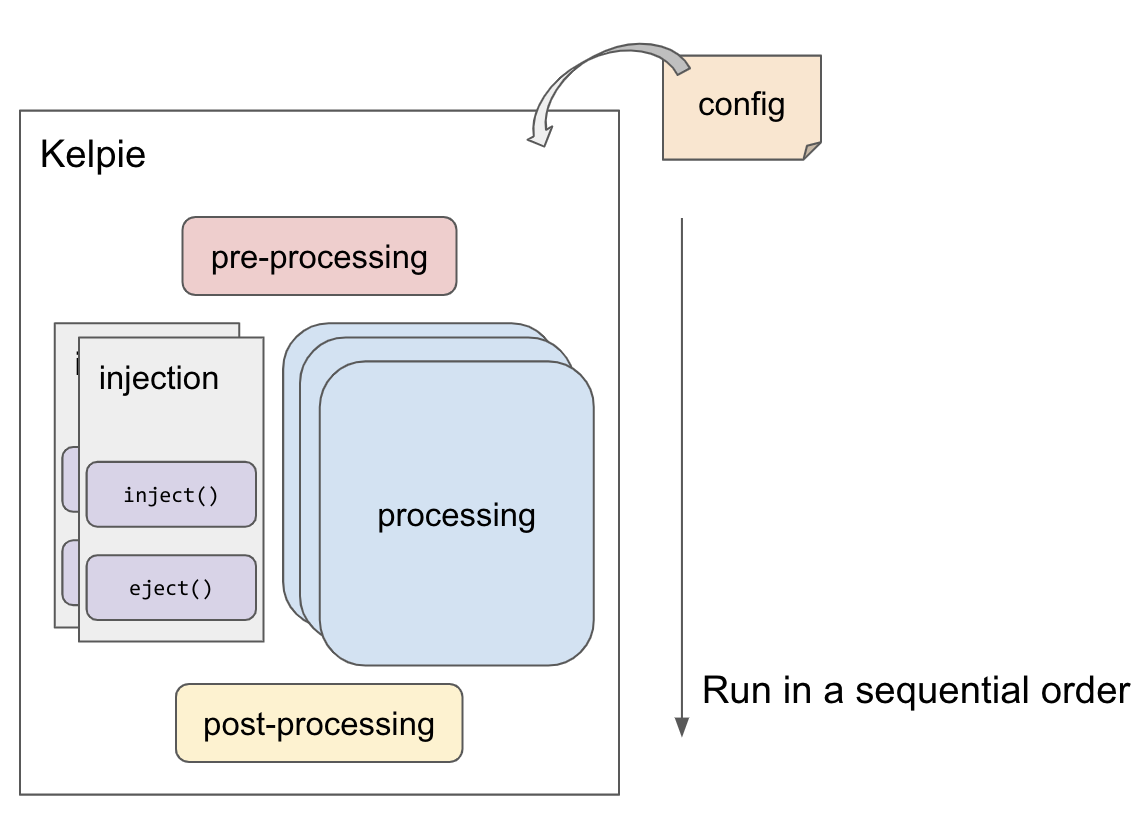
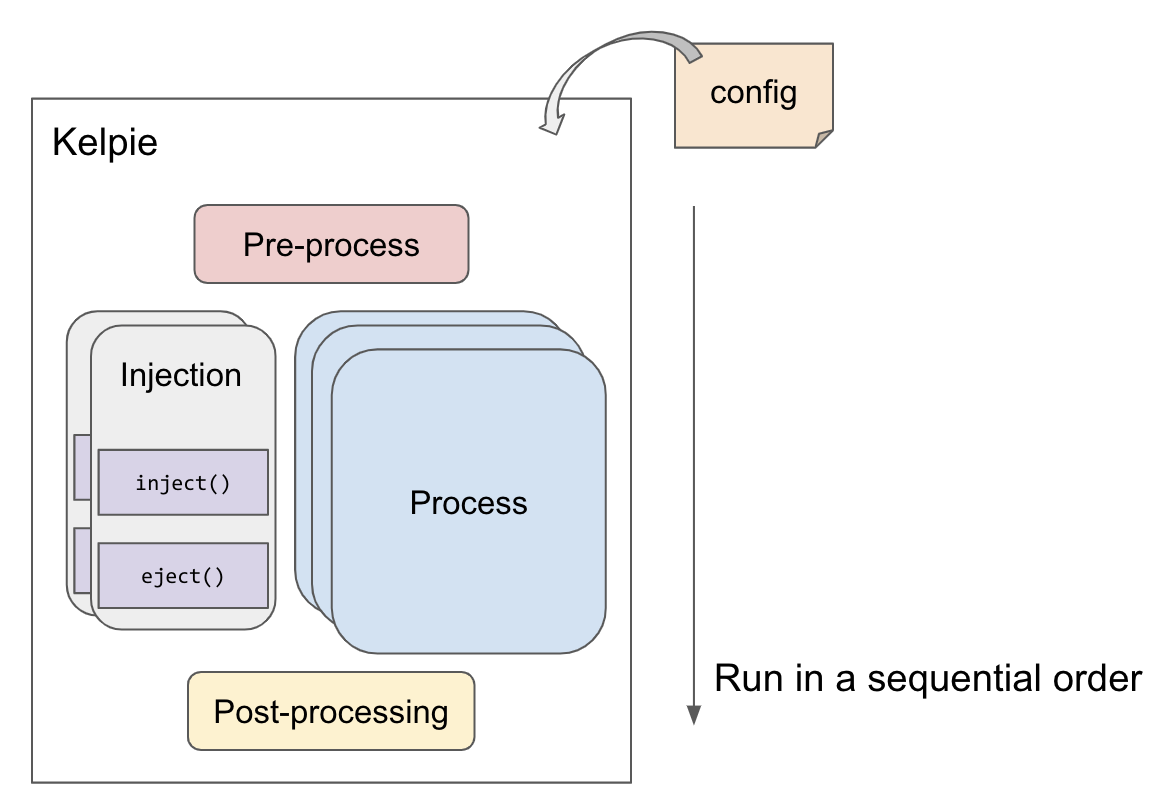
update README and diagram

Changed region(s): [[0.0, 0.0311, 0.7343, 0.995], [0.5813, 0.2799, 1.0, 0.9017], [0.3365, 0.5908, 0.4895, 0.653]]

diff --git a/README.md b/README.md
@@ -6,7 +6,7 @@ Kelpie is a simple yet general framework for running end-to-end testing such as 
 
 ## How Kelpie works
 Kelpie is composed of a framework that orchestrates a test and takes care of task management such as concurrent execution, and a test that is run by the framework.
-As the following diagram, a test in Kelpie has 3 steps; pre-processing, processing and post-processing, which run in a sequential order. A test can also have an injection step that runs in parallel with the processing step. The behavior of each step can be described by implementing the corresponding modules called `PreProcessor`, `Processor`, `PostProcessor` and `Injector` respectively.
+As the following diagram shows, a test in Kelpie has 3 steps; pre-processing, processing and post-processing, which run in a sequential order. A test can also have an injection step that runs in parallel with the processing step. The behavior of each step can be described by implementing the corresponding modules called `PreProcessor`, `Processor`, `PostProcessor` and `Injector` respectively.
 
 <p align="center">
   <img src="doc/kelpie.png" width=450px>
@@ -69,11 +69,11 @@ public class PrintPre extends PreProcessor {
 ```
 
 ## Processor
-`Processor` executes the main process. For example, `Processor` makes and sends requests to the server.
+`Processor` executes actual tests. For example, if it is benchmarking a database server, `Processor` makes a query, send it to the server, get the response back from the server, and continue them until it finishes.
 
-Like `Preprocessor`, you have to implement the constructor and `execute()`. `execute()` might be executed concurrently on multiple threads. That's why you need to make `execute()` thread-safe. If you don't want to do `execute()` concurrently, you have to set `concurrency = 1` in the config file.
+Like `Preprocessor`, you need to implement the constructor and `execute()`. `execute()` can be executed concurrently with multiple threads if `concurrency` is set to more than 1 in the configuration file. Note that you need to make `execute()` thread-safe in that case.
 
-The following class is a sample of `Processor`. It gets a number of `num` from `config`, counts the number and waits for a second. If you set `concurrency` more than 1, these counting messages are output by each thread.
+The following class is an example of `Processor`, which prints out a message for the specified number of times by `num`. 
 
 ```java
 package print;
@@ -104,9 +104,9 @@ public class PrintProcessor extends Processor {
 ```
 
 ## PostProcessor
-`PostProcessor` executes something after all `Processor#execute()` finish. For example, `PostProcessor` reads all records of the database and checks if their values are as expected. `PostProcessor#execute()` is always executed on a single thread.
+`PostProcessor` executes some tasks after all `Processor#execute()` finish. For example, if it is verifying database consistency, `PostProcessor` reads all the records of the database and checks if their values are as expected. `PostProcessor#execute()` is always executed with a single thread.
 
-Like `PreProcessor` and `Processor`, you have to implement the constructor and `execute()`. The following class is a sample of `PostProcessor` to just print the summary. It gets the parameters `title` and `num` from `config` and prints the summary.
+Like `PreProcessor` and `Processor`, you need to implement the constructor and `execute()`. The following class is an example of `PostProcessor`, which prints out the specified configurations.
 
 ```java
 package print;
@@ -127,23 +127,26 @@ public class PrintPost extends PostProcessor {
     System.out.println("Checking for " + title);
     System.out.println("Run for " + num + " seconds");
 
-    // always succeed
+    // always succeed in this case
+
+    // if unexpected result happens,
+    // throw new PostProcessException("unexpected result happens");
   }
 }
 ```
 
-If you want `PostProcessor` to check the result of `Processor` execution, `PostProcessor#execute()` might need to throw an exception for the unexpected result. A test will fail when an exception is thrown from each module.
+When `PostProcessor` check the result of `Processor` execution and the result isn't expected, `PostProcessor#execute()` should throw an exception `PostProcessException`. A test will fail when the exception is thrown.
 
 ## Injector
-`Injector` is different from other modules. It is executed while `Processor#execute()` is running. For example, `Injector` kills and restarts a database process for distructive testing.
+`Injector` executes some arbitrary tasks that you want to execute while `Processor#execute()` is running. For example, if it is verifying database consistency in a catastrophic environment, `Injector` kills and restarts a database process randomly and frequently.
 
-You execute `Injector` by `--inject` option when you start a test with Kelpie.
+You can enable `Injector` by adding `--inject` option to the `kelpie` command.
 
-```bash
+```console
 $ ./kelpie --config my_config.toml --inject
 ```
 
-The following class is a sample of `Injector`. You have to implement `inject()` and `eject()`. Kelpie always executes `eject()` after `inject()` when an `Injector` is invoked. `inject()` and `eject()` of the sample `Injector` waits a few seconds and prints a message.
+The following class is an example of `Injector` that only prints out some text after some random sleep. `Injector` has two methods to implement; `inject()` and `eject()`. Note that `inject` is always executed before `eject()`.
 
 ```java
 package print;
@@ -186,19 +189,17 @@ public class PrintInjector extends Injector {
 }
 ```
 
-You can add multiple `Injector`s. They are invoked by `InjectionExecutor`.
+When multiple `Injector`s are specified, the way they run concurrently is controlled by `InjectionExecutor`. The currently default `InjectionExecutor` is called `RandomInjectionExecutor`. `RandomInjectionExecutor` randomly selects and invokes one `injector` from the multiple `injector`s at a time.
 
-The default executor is `com.scalar.kelpie.executor.RandomInjectionExecutor`. It invokes them one by one. When an `Injector A` starts its `inject()`, any other `Injector` isn't invoked until `Injector A` finishes its `eject()`. And, invoked `Injector` is chosen randomly from all `Injector`s.
-
-In the future, you can choose `InjectionExecutor` by adding `injection_executor` parameter on `[common]` table in the config file.
+In the future, you may be able to specify `InjectionExecutor` in the configuration.
 
 # Config
-You can modify the behavior of your test by the config file. The format of a config file is TOML.
-
-A config consists of at least two tables; `[modules]` and `[common]`. They are used for the execution behavior of Kelpie. And, you can add your own parameters.
+A config is a TOML-formatted file where you can define what modules and static variables to use in your test.
+A config file consists of at least a table `[modules]`. `[commmon]` is optional, but it is useful for your test.
 
 ## [modules]
-Each module is specified with the name and the path of the class file on `[modules]`. For `PreProcessor`, `Processor` and `PostProcessor`, each module is specified with `name` and `path` on each table like `[modules.preprocessor]`. You can specify multiple `Injector`s. `Injector` is specified with the name and the path of the class file like other modules. You have to use an array of the tables `[[modules.injectors]]` to specify `Injector`s.
+`[modules]` is where you specify what modules to run.
+As the following example shows, each module needs to be specified with the binary name and the path of a class file in a respective table such as `[modules.preprocessor]`, `[modules.processor]`, and `[modules.postprocessor]`. Note that an `injector` needs to be specified in an array of tables since we can specify multiple `injector`s.
 
 ```toml
 [modules]
@@ -220,12 +221,11 @@ Each module is specified with the name and the path of the class file on `[modul
 ```
 
 ## [common]
-`[common]` is reserved for test behavior. All paramters on this `[common]` table are optional.
-You can specify the number of threads which execute `Processor#execute()` by `concurrency`. The default value is 1.
-`run_for_sec` can be used for a run time of your test. The default value is 60.
-`ramp_for_sec` can be used for the time before the measurement, like a warmup. The default value is 0.
-`run_for_sec` and `ramp_for_sec` can be acquired with `Config#getRunForSec()` and `Config#getRampForSec()` in your module.
-`injection_executor` is to choose `InjectionExecutor`. The default value is `com.scalar.kelpie.executor.RandomInjectionExecutor`.
+`[common]` is for reserved static variables that the framework use to change its behavior. All variables on `[common]` table are optional.
+`concurrency` is the number of threads to execute in `Processor#execute()`. The default value is 1.
+`run_for_sec` is the run time of your test. The default value is 60. This value can be retrieved with `Config#getRunForSec()` from your module.
+`ramp_for_sec` is the ramp up time before measurement that can be used for warming up your target system . The default value is 0.  This value can be retrieved with `Config#getRampForSec()` from your module.
+`injection_executor` is where you can specify `InjectionExecutor`. The default value is `com.scalar.kelpie.executor.RandomInjectionExecutor`.
 
 
 ```toml
@@ -236,8 +236,8 @@ You can specify the number of threads which execute `Processor#execute()` by `co
   injection_executor = "com.scalar.kelpie.executor.RandomInjectionExecutor"
 ```
 
-## Your parameters
-You can set your parameters which are used in your modules by adding tables. In the following example, `[my_test]` and `[my_initial_values]` are defined and 3 prameters are set.
+## Static variables in your test
+You can define static variables that can be used in your modules by defining arbitrary named tables. In the following example,  3 static variables are defined in `[my_test]` and `[my_initial_values]` tables.
 
 ```toml
 [my_test]
@@ -248,7 +248,7 @@ You can set your parameters which are used in your modules by adding tables. In 
   balance = 1000
 ```
 
-You can get them by `Config#getUserString(table, name)` and `Config#getUserLong(table, name)`. If you want to get the default value when the specified table or parameter doesn't exists, you use `Config#getUserString(table, name, defaultValue)` or `Config#getUserLong(table, name, defaultValue)`.
+You can get static variables with `Config#getUserString(table, name)` and `Config#getUserLong(table, name)`. If you want to get a default value when a specified table or a static variable doesn't exists, you use `Config#getUserString(table, name, defaultValue)` and `Config#getUserLong(table, name, defaultValue)`.
 
 ```java
   String testName = config.getUserString("my_test", "test_name");
